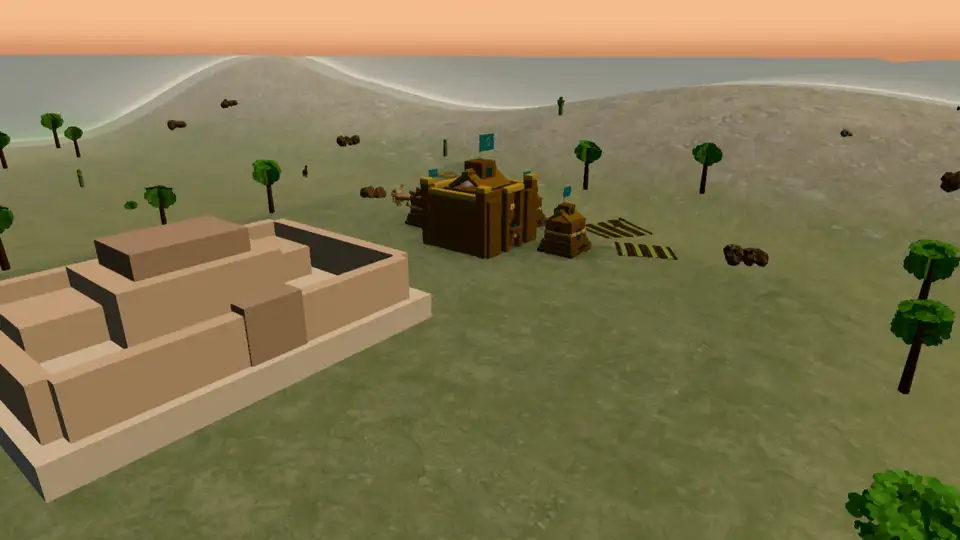
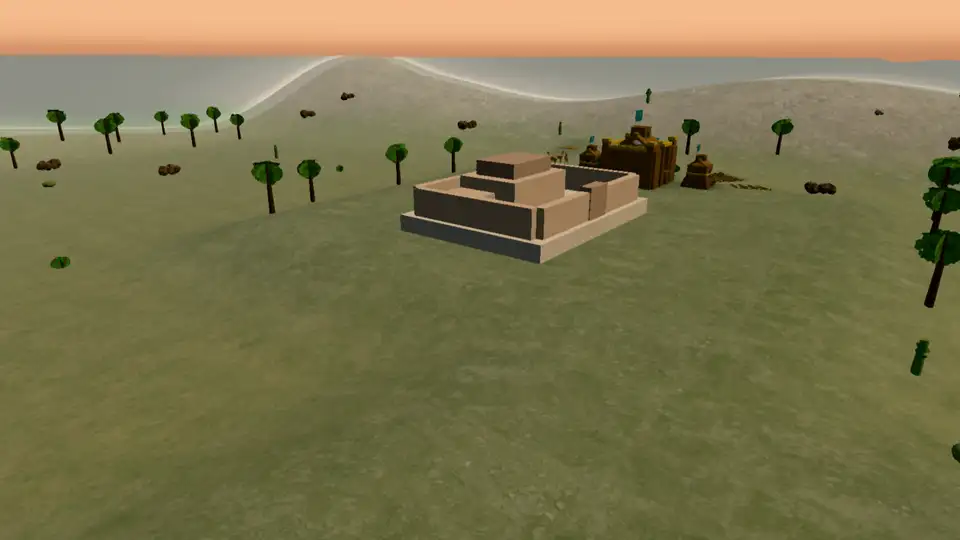
fix(m6): aplica la revisión de #487
- Tutorial de m6 al día: la victoria es la rendición de Chan Chan (30 s) y hay paso propio para sostenerla.\n- chimu-site.md actualizado a 256 m y al nuevo mecanismo; comentario de la compuerta con la mitad real (18,67 m).\n- Acto III con captura propia de la capitulación y Paramonga capturado en su punto de aproximación, no en Chan Chan.\n- Playtest con orden de movimiento real a Chan Chan (sin teletransporte) y guardado/carga a mitad de la rendición.\n- Bench: m6 usa la espera genérica de kits y el presupuesto de kit medido (15k/3).\n- Etiquetas de RIFLEMAN/MUSKETEER como ids heredados (arquero/hondero) y certeza del canal matizada.

diff --git a/tests/e2e/save-campaign.spec.ts b/tests/e2e/save-campaign.spec.ts
@@ -749,6 +749,75 @@ test('saves and loads m5 mid-siege', async ({ page }) => {
   expect(after).toEqual(before);
 });
 
+test('saves and loads m6 mid-surrender', async ({ page }) => {
+  await page.goto('/?mission=m6_chimu_inca&seed=777&fog=0&low=1&intro=0');
+  await startMission(page);
+  await page.waitForFunction(
+    () => {
+      const g = (window as unknown as { game?: any }).game;
+      return !!g?.mission && g.units.size > 0;
+    },
+    null,
+    { timeout: 20_000 },
+  );
+  const before = await page.evaluate(() => {
+    const g = (window as unknown as { game: any }).game;
+    g.loop.stop();
+    if (g.getPaused()) g.togglePause();
+    const m = g.mission;
+    const tupac = [...g.units.values()].find((u: any) => u.tag === 'tupac_yupanqui') as any;
+    const advance = m.getObjectiveAnchor('obj_avanzar') as { x: number; z: number };
+    tupac.pos.set(advance.x, g.terrain.getHeight(advance.x, advance.z), advance.z);
+    g.update(1 / 60, 0);
+    document.querySelector<HTMLElement>('.ed-mission-card')?.click();
+    const canal = g.canalSite as { x: number; z: number };
+    tupac.pos.set(canal.x, g.terrain.getHeight(canal.x, canal.z), canal.z);
+    g.update(1 / 60, 0.01);
+    g.toggleCanal();
+    g.update(1 / 60, 0.02);
+    document.querySelector<HTMLElement>('.ed-mission-card')?.click();
+    const anchor = g.siteAnchor as { x: number; z: number };
+    const army = [...g.units.values()].filter((u: any) => u.owner === 0 && !u.dead).slice(0, 4) as any[];
+    for (const u of army) u.pos.set(anchor.x, g.terrain.getHeight(anchor.x, anchor.z), anchor.z);
+    const dt = 1 / 60;
+    let t = 0.1;
+    for (let i = 0; i < Math.ceil(10 / dt) && !m.ended; i++) {
+      document.querySelector<HTMLElement>('.ed-mission-card')?.click();
+      for (const u of army) u.pos.set(anchor.x, g.terrain.getHeight(anchor.x, anchor.z), anchor.z);
+      g.update(dt, t);
+      t += dt;
+    }
+    g.saveMatch();
+    return {
+      surrender: g.mission.getObjectiveProgress('obj_rendicion'),
+      canal: m.getObjectiveState('obj_canal'),
+      tutorialStep: g.tutorial?.toSave().stepId ?? null,
+    };
+  });
+  expect(before.surrender?.current ?? 0).toBeGreaterThan(5);
+  expect(before.canal).toBe('completed');
+
+  await page.goto('/?load=1');
+  await page.waitForFunction(
+    () => {
+      const g = (window as unknown as { game?: any }).game;
+      return !!g?.mission && g.units.size > 0;
+    },
+    null,
+    { timeout: 20_000 },
+  );
+  const after = await page.evaluate(() => {
+    const g = (window as unknown as { game: any }).game;
+    g.loop.stop();
+    return {
+      surrender: g.mission.getObjectiveProgress('obj_rendicion'),
+      canal: g.mission.getObjectiveState('obj_canal'),
+      tutorialStep: g.tutorial?.toSave().stepId ?? null,
+    };
+  });
+  expect(after).toEqual(before);
+});
+
 test('saves and loads the later campaign missions', async ({ context }) => {
   test.setTimeout(180_000);
   for (const id of [

diff --git a/tests/e2e/campaign-playtest.spec.ts b/tests/e2e/campaign-playtest.spec.ts
@@ -503,14 +503,15 @@ test('plays m6 by advancing and cutting the canal with real orders', async ({ pa
     document.querySelector<HTMLElement>('.ed-mission-card')?.click();
     const atSurrender = m.getObjectiveState('obj_rendicion') as string;
     const wonAtSurrender = m.won as boolean | null;
-    // Act III: march to Chan Chan and hold the surrender for 30 s.
+    // Act III: march to Chan Chan with a real move order and hold the surrender for 30 s.
     const anchor = g.siteAnchor as { x: number; z: number };
-    for (const u of g.units.values())
-      if (u.owner === 0 && !u.dead) u.pos.set(anchor.x, g.terrain.getHeight(anchor.x, anchor.z), anchor.z);
-    for (let i = 0; i < Math.ceil(32 / dt) && !m.ended; i++) {
-      document.querySelector<HTMLElement>('.ed-mission-card')?.click();
-      for (const u of g.units.values())
-        if (u.owner === 0 && !u.dead) u.pos.set(anchor.x, g.terrain.getHeight(anchor.x, anchor.z), anchor.z);
+    const army = [...g.units.values()].filter((u: any) => u.owner === 0 && !u.dead).map((u: any) => u.id);
+    g.executeCommand(
+      { kind: 'order', unitIds: army, order: { kind: 'move', target: { x: anchor.x, z: anchor.z } }, clear: true },
+      false,
+    );
+    for (let i = 0; i < Math.ceil(90 / dt) && !m.ended; i++) {
+      if (g.hud.isMissionCardOpen()) document.querySelector<HTMLElement>('.ed-mission-card')?.click();
       g.update(dt, t);
       t += dt;
     }

diff --git a/src/campaign/defs/tutorials.ts b/src/campaign/defs/tutorials.ts
@@ -271,13 +271,18 @@ const TUTORIALS: Record<string, TutorialDef> = {
       },
       {
         id: 'chan_chan',
-        text: 'Tomar Chan Chan es opcional y debe hacerse antes de cortar el agua: en cuanto caiga el canal, la ciudad se rinde y la misión termina. No sacrifiques a Túpac Yupanqui por ello.',
+        text: 'Tomar el centro de Chan Chan es opcional; la victoria llega cuando la ciudad sostiene la rendición treinta segundos.',
         check: { type: 'elapsed', seconds: 12 },
       },
       {
         id: 'canal',
-        text: 'Lleva a Túpac Yupanqui hasta el canal de Chan Chan, selecciona su ficha y cierra la compuerta: cortar el agua fuerza la rendición chimú.',
+        text: 'Lleva a Túpac Yupanqui hasta el canal de Chan Chan, selecciona su ficha y cierra la compuerta: el agua deja de llegar a la ciudad.',
         check: { type: 'objectiveCompleted', objectiveId: 'obj_canal' },
+      },
+      {
+        id: 'rendicion',
+        text: 'Marcha a Chan Chan y sostén la rendición treinta segundos con al menos cuatro unidades.',
+        check: { type: 'objectiveCompleted', objectiveId: 'obj_rendicion' },
       },
     ],
   },

diff --git a/src/campaign/defs/missions/m6_chimu_inca.ts b/src/campaign/defs/missions/m6_chimu_inca.ts
@@ -105,7 +105,7 @@ export const m6ChimuInca: MissionDef = {
     {
       id: 'obj_canal',
       kind: 'canal_closed',
-      // The straight canal's gate sits at one end (14 m from its centre): the crew may close it from there.
+      // The straight canal's gate sits at one end (18.67 m from its centre): the crew may close it from there.
       pos: { ref: 'canal', dx: 0, dz: 0 },
       radius: chimuLength(16),
       hidden: true,
@@ -214,7 +214,7 @@ export const m6ChimuInca: MissionDef = {
           type: 'act',
           kicker: 'Acto III · La capitulación',
           title: 'Chan Chan se rinde',
-          image: 'media/chimu/intro-canal.webp',
+          image: 'media/chimu/intro-rendicion.webp',
           text: 'El canal está cortado. Marcha a Chan Chan y recibe la capitulación de Minchancaman; la ciudad no resiste sin agua.',
         },
         {

diff --git a/src/model/defs/siteComposition.ts b/src/model/defs/siteComposition.ts
@@ -10,7 +10,7 @@ export interface SiteComposition {
   point<T extends { x: number; z: number }>(p: T): T;
 }
 
-/** The campaign sites (Arica, Cusco) were authored for the former 192 m maps. */
+/** The campaign sites (Arica, Cusco, Moche, Wari, Chan Chan) were authored for the former 192 m maps. */
 export const SITE_SOURCE_SIZE = 192;
 
 export function siteComposition(mapSize: number, sourceSize = SITE_SOURCE_SIZE): SiteComposition {

diff --git a/docs/design/chimu-model-mission.md b/docs/design/chimu-model-mission.md
@@ -16,11 +16,11 @@ power: advance, close the gate, and receive the surrender.
 
 ## Acts
 
-| Act                    | Place                | Player action                                                       | Historical idea                                                       |
-| ---------------------- | -------------------- | -------------------------------------------------------------------- | --------------------------------------------------------------------- |
-| I · Paramonga          | North coast          | Advance to Paramonga and keep Túpac Yupanqui alive                  | The first clash and the curaca reinforcements open the campaign       |
-| II · El canal          | Chan Chan canal      | Reach the canal and close its gate                                  | Water is the city's lifeline and the campaign's lever                 |
-| III · La capitulación  | Chan Chan            | March to the city and hold the surrender for 30 s                   | The desert capital capitulates; the north joins the Tahuantinsuyo     |
+| Act                   | Place           | Player action                                      | Historical idea                                                   |
+| --------------------- | --------------- | -------------------------------------------------- | ----------------------------------------------------------------- |
+| I · Paramonga         | North coast     | Advance to Paramonga and keep Túpac Yupanqui alive | The first clash and the curaca reinforcements open the campaign   |
+| II · El canal         | Chan Chan canal | Reach the canal and close its gate                 | Water is the city's lifeline and the campaign's lever             |
+| III · La capitulación | Chan Chan       | March to the city and hold the surrender for 30 s  | The desert capital capitulates; the north joins the Tahuantinsuyo |
 
 Optional: take Chan Chan's centre if it resists, or hold the camp for ten minutes. The epilogue narrates
 Minchancaman's transfer and Querrotumi's 1475 revolt.
@@ -51,7 +51,8 @@ in the quality bar.
 ## Economy and units
 
 - Inca workers, warriors, riflemen and honderos; the Chimú side fields warriors and honderos.
-  `UnitKind.MUSKETEER` is the legacy ranged id: in this era it renders as a hondero, not a firearm.
+  `UnitKind.MUSKETEER` and `UnitKind.RIFLEMAN` are legacy ranged ids: in this era they render as a hondero
+  and an arquero, not firearms.
 - The canal gate is Act II's mechanic (`canal_closed`, heritage `chimu_canal`); the water is an abstraction
   of the documented cut, not a reconstructed canal trace.
 - The narrator is **Túpac Yupanqui**, a documented commander.
@@ -59,11 +60,12 @@ in the quality bar.
 ## Opening and closing
 
 - Three narrated intro beats and the three act cards captured in engine by
-  [`scripts/capture_chimu_intro.mjs`](../../scripts/capture_chimu_intro.mjs): the north coast, Paramonga and
-  the canal, plus a dusk epilogue.
+  [`scripts/capture_chimu_intro.mjs`](../../scripts/capture_chimu_intro.mjs): the north coast, Paramonga, the
+  canal and the capitulation, plus a dusk epilogue.
 - `MISSION_ART` (`m6_chimu_inca` → `media/chimu/intro-costa.webp`) and the briefing use the coast capture.
-- Victory: the canal is closed and Chan Chan holds the surrender. The epilogue
-  (`media/chimu/intro-epilogo.webp`) narrates Minchancaman's transfer and Querrotumi's revolt. Defeat: the
+- Victory: the canal is closed and Chan Chan holds the surrender; the Act III card uses the capitulation
+  capture. The epilogue (`media/chimu/intro-epilogo.webp`) narrates Minchancaman's transfer and
+  Querrotumi's revolt. Defeat: the
   Inca column or Túpac Yupanqui is lost.
 
 ## Tutorial
@@ -75,8 +77,8 @@ the briefing, the chapter cards and the Codex.
 
 - Data: `tests/campaign.test.ts`, `tests/campaign-layout.test.ts`, `tests/authored-sites.test.ts`.
 - Scale: `tests/campaign-scale.test.ts` enforces 256 m, 128² painted ground and the crossing band.
-- E2E: `campaign.spec.ts` (gate and surrender), `campaign-playtest.spec.ts` (real orders, no cheats),
-  `campaign-completable.spec.ts`, `save-campaign.spec.ts` (later missions) and `hud-layout.spec.ts`.
+- E2E: `campaign.spec.ts` (gate and surrender), `campaign-playtest.spec.ts` (real move orders, no cheats),
+  `campaign-completable.spec.ts`, `save-campaign.spec.ts` (mid-surrender save/load) and `hud-layout.spec.ts`.
 - Bench: `scripts/bench_scene.mjs` measures the opening (~499k tris / 273 calls) and the surrender
   (~765k / 516, over the 600k target); `yarn bench:check`.
 - Evidence: `yarn record --mission=m6_chimu_inca --mode=clip` and the intro/epilogue captures.

diff --git a/docs/design/chimu-site.md b/docs/design/chimu-site.md
@@ -17,21 +17,23 @@ is **not** a survey and **not** a historical photograph.
   `chimu_compound_lod1.blend` (Git LFS).
 - Build/export: `scripts/blender/build_mission_decor.py`.
 - LOD1 is the RTS default; `?lod=0` previews LOD0.
-- Scale `0.7`, site origin and anchor `(142.8, 65)` on the 192 m map.
+- Scale `0.7 × 256/192`, site origin and anchor `(190.4, 86.7)` on the 256 m map.
 - Authored heightfield: `src/model/defs/chimuHeightmap.ts`, generated by
-  `scripts/build_chimu_heightmap.py`. The coastal valley, player base and Chimú
-  terrace are flat at 5 m; the canal corridor stays low and readable.
-- A 1 m pathfinding grid, monument blockers and an 8 m walkable corridor connect
+  `scripts/build_chimu_heightmap.py`. The 192 m composition is sampled 4/3 larger:
+  the coastal valley, player base and Chimú terrace are flat at 5 m; the canal
+  corridor stays low and readable. `CHIMU_GROUND` paints beach, valley, terraces
+  and foothills.
+- A 1 m pathfinding grid, monument blockers and a 10.7 m walkable corridor connect
   the base to the site. Construction is forbidden over the compound footprint.
 
 ## Attested elements and abstractions
 
-| Element | Source status | In game |
-| --- | --- | --- |
-| Chimú adobe compound | Documented architectural tradition | Walled compound, audience and rooms as a legible abstraction. |
-| Chan Chan | Documented capital | Represented by the compound and the enemy center; no single ciudadela is claimed. |
-| Canal and water control | Documented campaign mechanic | Operable canal and a reach objective for Túpac Yupanqui. |
-| Exact compound plan | Not reproduced | Marked plausible; not presented as a survey. |
+| Element                 | Source status                      | In game                                                                           |
+| ----------------------- | ---------------------------------- | --------------------------------------------------------------------------------- |
+| Chimú adobe compound    | Documented architectural tradition | Walled compound, audience and rooms as a legible abstraction.                     |
+| Chan Chan               | Documented capital                 | Represented by the compound and the enemy center; no single ciudadela is claimed. |
+| Canal and water control | Documented campaign mechanic       | Operable gate (`canal_closed`) and a 30 s surrender hold at the city.             |
+| Exact compound plan     | Not reproduced                     | Marked plausible; not presented as a survey.                                      |
 
 ## Implementation
 

diff --git a/PROVENANCE.md b/PROVENANCE.md
@@ -427,13 +427,14 @@ slot is absent (offline / without assets).
 
 ### Chimú (m6) intro and epilogue images (in-engine recreations)
 
-- **Location**: `public/media/chimu/intro-{costa,paramonga,canal,epilogo}.webp` (960x540, WebP q58).
+- **Location**: `public/media/chimu/intro-{costa,paramonga,canal,rendicion,epilogo}.webp` (960x540, WebP q58).
 - **Source**: captured from the game itself by `scripts/capture_chimu_intro.mjs` on the 256 m north-coast
   transect: the Inca camp, Paramonga and the Chan Chan canal, plus a dusk epilogue. Rendered without the
   HUD or character nameplates at 1600x900 and resized with `sharp`. Regenerate with
   `node scripts/capture_chimu_intro.mjs` (one with `--only=ID`) after art changes.
 - **Runtime**: the briefing and the "Tu senda" card use `intro-costa`; the three intro beats and the act
-  cards use the coast, Paramonga and the canal captures; the victory epilogue uses `intro-epilogo`.
+  cards use the coast, Paramonga, the canal and the capitulation captures; the victory epilogue uses
+  `intro-epilogo`.
 - **Content**: project-owned game renders (authored Chimú heightfield, the reused `chimu_site` compound and
   the procedural camps). Recreations of the game's own scenes: never historical photographs, and not
   Blender renders (so not in `src/art/manifest.json`).

diff --git a/docs/historia/campanas/chimu_inca.md b/docs/historia/campanas/chimu_inca.md
@@ -25,7 +25,7 @@
 | Afirmación | Certeza | Base |
 | --- | --- | --- |
 | La campaña inca contra Chimor y el choque de Paramonga | Documentado por las crónicas | Cieza de León y fuentes coloniales |
-| Túpac Yupanqui seca el canal que abastecía Chan Chan | Documentado por las crónicas | Fuentes coloniales |
+| Túpac Yupanqui seca el canal que abastecía Chan Chan | Documentado por las crónicas; trazado y compuerta abstraídos | Fuentes coloniales |
 | La capitulación de Chan Chan y el traslado de Minchancaman al Cusco | Documentado | Fuentes coloniales |
 | La revuelta de Querrotumi en 1475 y su derrota | Documentado | Fuentes coloniales |
 | El trazado exacto del canal y la compuerta | Abstracción jugable | Este dossier y `docs/design/chimu-model-mission.md` |
